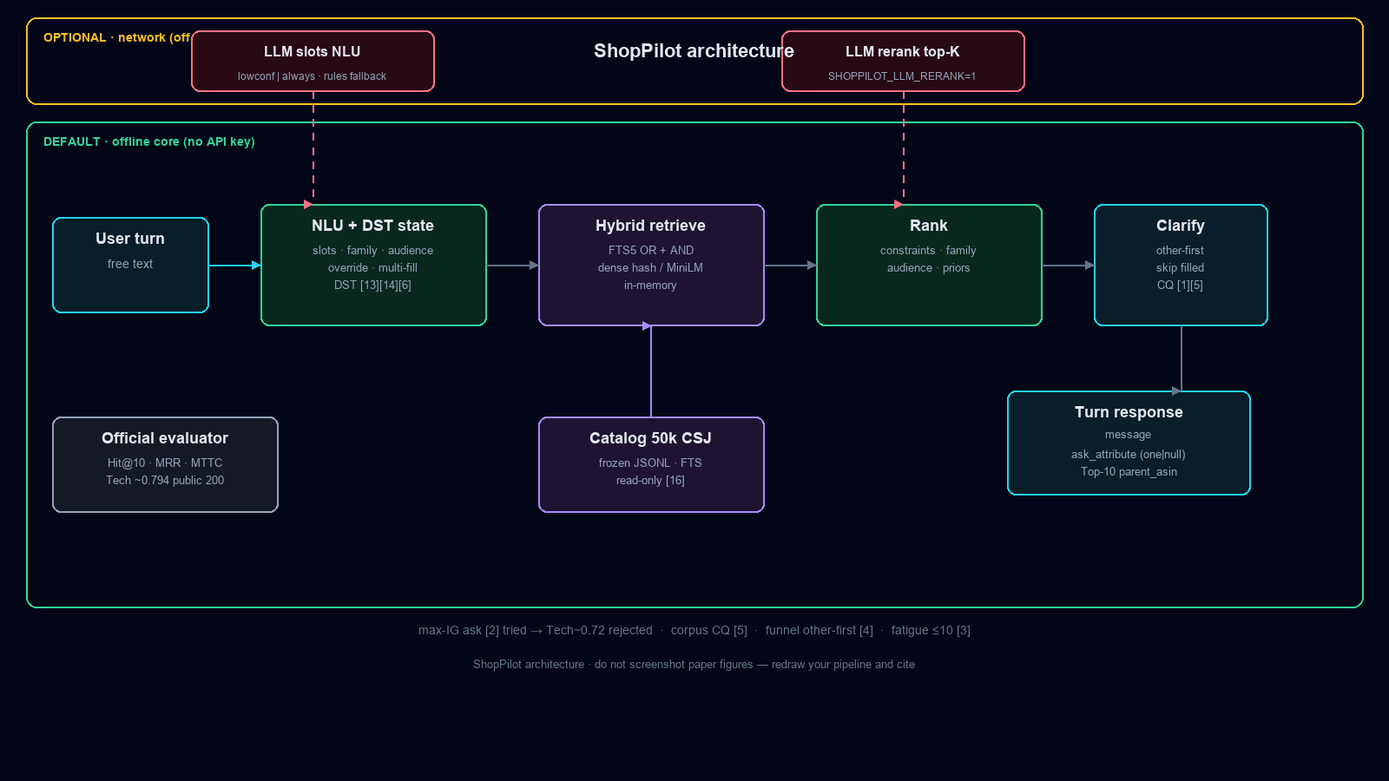
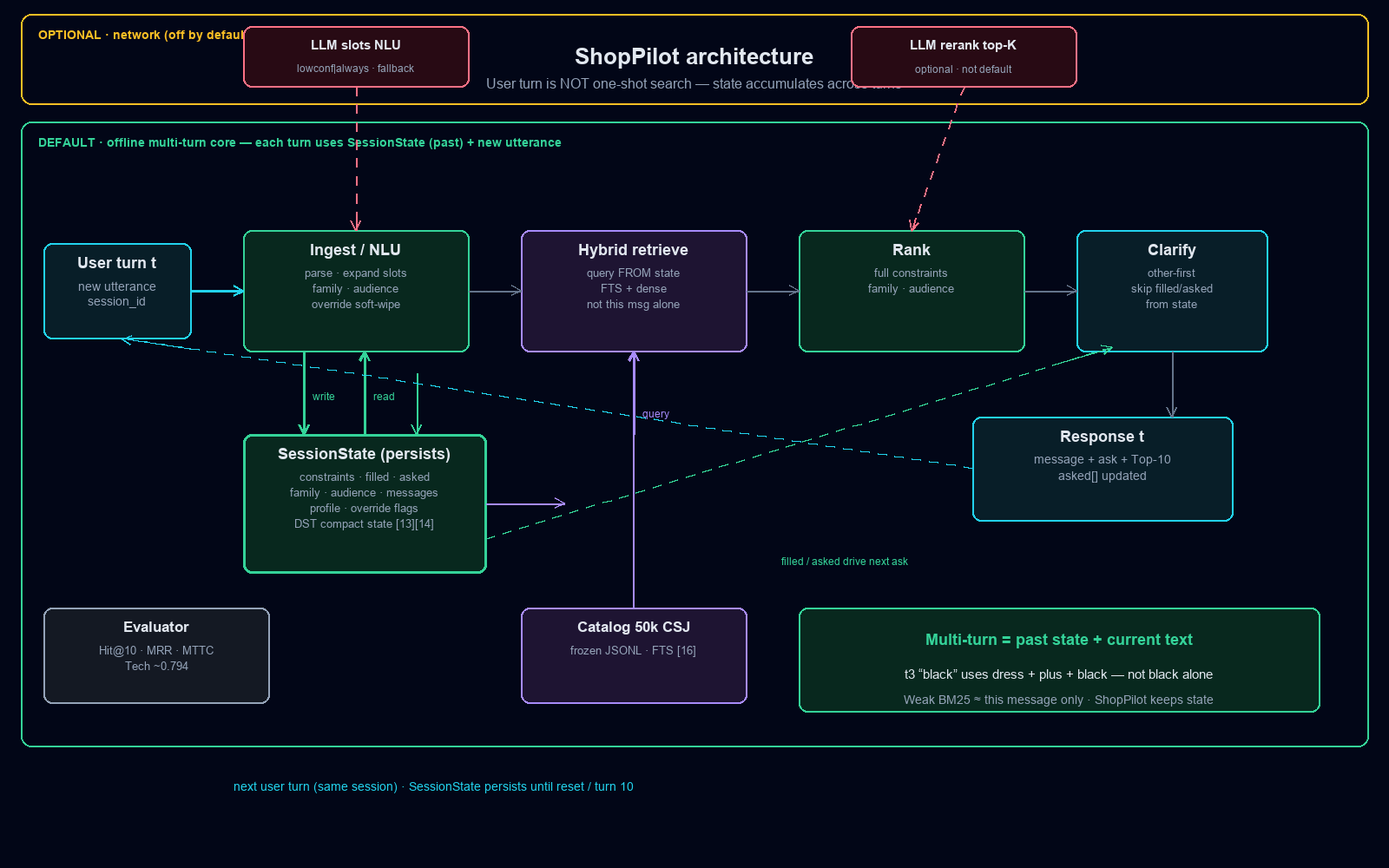
Architecture diagram: show multi-turn SessionState feedback loop.

diff --git a/docs/architecture_diagram.html b/docs/architecture_diagram.html
@@ -9,8 +9,6 @@
 <style>
   :root {
     --bg: #020617;
-    --card: #0f172a;
-    --grid: #1e293b;
     --text: #e2e8f0;
     --muted: #94a3b8;
     --cyan: #22d3ee;
@@ -18,7 +16,6 @@
     --violet: #a78bfa;
     --amber: #fbbf24;
     --rose: #fb7185;
-    --orange: #fb923c;
   }
   * { box-sizing: border-box; }
   body {
@@ -30,7 +27,7 @@
     padding: 28px 24px 48px;
   }
   .header {
-    max-width: 1100px;
+    max-width: 1120px;
     margin: 0 auto 18px;
     display: flex;
     align-items: center;
@@ -39,7 +36,6 @@
   .dot {
     width: 10px; height: 10px; border-radius: 50%;
     background: var(--emerald);
-    box-shadow: 0 0 0 0 rgba(52,211,153,.7);
     animation: pulse 2s infinite;
   }
   @keyframes pulse {
@@ -47,20 +43,19 @@
     70% { box-shadow: 0 0 0 10px rgba(52,211,153,0); }
     100% { box-shadow: 0 0 0 0 rgba(52,211,153,0); }
   }
-  h1 { font-size: 18px; margin: 0; font-weight: 700; letter-spacing: .02em; }
+  h1 { font-size: 18px; margin: 0; font-weight: 700; }
   .sub { color: var(--muted); font-size: 12px; margin-top: 4px; }
   .frame {
-    max-width: 1100px;
+    max-width: 1120px;
     margin: 0 auto;
     background: linear-gradient(180deg, #0b1220, #070b14);
     border: 1px solid #1e293b;
     border-radius: 14px;
     padding: 16px;
-    overflow: auto;
   }
   svg { display: block; width: 100%; height: auto; }
   .cards {
-    max-width: 1100px;
+    max-width: 1120px;
     margin: 18px auto 0;
     display: grid;
     grid-template-columns: repeat(3, 1fr);
@@ -79,13 +74,8 @@
   .card-dot.violet { background: var(--violet); }
   .card h3 { margin: 0; font-size: 12px; font-weight: 600; }
   .card ul { margin: 0; padding: 0; list-style: none; color: var(--muted); font-size: 11px; line-height: 1.55; }
-  .footer {
-    max-width: 1100px; margin: 16px auto 0;
-    color: #64748b; font-size: 10px;
-  }
-  @media (max-width: 800px) {
-    .cards { grid-template-columns: 1fr; }
-  }
+  .footer { max-width: 1120px; margin: 16px auto 0; color: #64748b; font-size: 10px; }
+  @media (max-width: 800px) { .cards { grid-template-columns: 1fr; } }
 </style>
 </head>
 <body>
@@ -93,12 +83,12 @@
     <div class="dot"></div>
     <div>
       <h1>ShopPilot architecture</h1>
-      <div class="sub">Offline-first multi-turn shopping agent · TechJam Track 4 · demo UI: Astrid CLI</div>
+      <div class="sub">Multi-turn DST: each user turn updates SessionState, then retrieve/rank/ask from accumulated past + current utterance</div>
     </div>
   </div>
 
   <div class="frame">
-    <svg viewBox="0 0 1040 620" xmlns="http://www.w3.org/2000/svg" role="img" aria-label="ShopPilot architecture diagram">
+    <svg viewBox="0 0 1080 680" xmlns="http://www.w3.org/2000/svg" role="img" aria-label="ShopPilot multi-turn architecture">
       <defs>
         <pattern id="grid" width="40" height="40" patternUnits="userSpaceOnUse">
           <path d="M 40 0 L 0 0 0 40" fill="none" stroke="#1e293b" stroke-width="0.5"/>
@@ -109,164 +99,195 @@
         <marker id="arrowCyan" markerWidth="8" markerHeight="8" refX="6" refY="3" orient="auto">
           <path d="M0,0 L6,3 L0,6 Z" fill="#22d3ee"/>
         </marker>
+        <marker id="arrowEm" markerWidth="8" markerHeight="8" refX="6" refY="3" orient="auto">
+          <path d="M0,0 L6,3 L0,6 Z" fill="#34d399"/>
+        </marker>
         <marker id="arrowRose" markerWidth="8" markerHeight="8" refX="6" refY="3" orient="auto">
           <path d="M0,0 L6,3 L0,6 Z" fill="#fb7185"/>
         </marker>
+        <marker id="arrowV" markerWidth="8" markerHeight="8" refX="6" refY="3" orient="auto">
+          <path d="M0,0 L6,3 L0,6 Z" fill="#a78bfa"/>
+        </marker>
       </defs>
 
-      <rect width="1040" height="620" fill="#020617"/>
-      <rect width="1040" height="620" fill="url(#grid)"/>
+      <rect width="1080" height="680" fill="#020617"/>
+      <rect width="1080" height="680" fill="url(#grid)"/>
 
-      <!-- Zone: online optional -->
-      <rect x="20" y="20" width="1000" height="90" rx="12" fill="none" stroke="#fbbf24" stroke-width="1.2" stroke-dasharray="8,4" opacity="0.7"/>
-      <text x="36" y="42" fill="#fbbf24" font-size="10" font-family="JetBrains Mono, monospace">OPTIONAL · network (off by default)</text>
+      <!-- Optional zone -->
+      <rect x="24" y="16" width="1032" height="88" rx="12" fill="none" stroke="#fbbf24" stroke-width="1.2" stroke-dasharray="8,4" opacity="0.75"/>
+      <text x="40" y="38" fill="#fbbf24" font-size="10" font-family="JetBrains Mono, monospace">OPTIONAL · network (off by default)</text>
 
-      <!-- Zone: offline core -->
-      <rect x="20" y="130" width="1000" height="400" rx="12" fill="none" stroke="#34d399" stroke-width="1.2" stroke-dasharray="8,4" opacity="0.55"/>
-      <text x="36" y="152" fill="#34d399" font-size="10" font-family="JetBrains Mono, monospace">DEFAULT · offline core (no API key)</text>
+      <!-- Offline core zone -->
+      <rect x="24" y="120" width="1032" height="470" rx="12" fill="none" stroke="#34d399" stroke-width="1.2" stroke-dasharray="8,4" opacity="0.55"/>
+      <text x="40" y="142" fill="#34d399" font-size="10" font-family="JetBrains Mono, monospace">DEFAULT · offline multi-turn core (SessionState carries across turns ≤10)</text>
 
-      <!-- Arrows (behind boxes) -->
-      <!-- user -> nlu -->
-      <line x1="160" y1="230" x2="210" y2="230" stroke="#22d3ee" stroke-width="1.5" marker-end="url(#arrowCyan)"/>
-      <!-- nlu -> retrieve -->
-      <line x1="390" y1="230" x2="440" y2="230" stroke="#64748b" stroke-width="1.5" marker-end="url(#arrow)"/>
+      <!-- ===== ARROWS (draw early) ===== -->
+      <!-- user -> ingest -->
+      <line x1="150" y1="250" x2="200" y2="250" stroke="#22d3ee" stroke-width="1.6" marker-end="url(#arrowCyan)"/>
+      <!-- past state -> ingest (feedback) -->
+      <path d="M 290 430 L 290 320" fill="none" stroke="#34d399" stroke-width="1.8" marker-end="url(#arrowEm)"/>
+      <text x="300" y="380" fill="#34d399" font-size="8" font-family="JetBrains Mono, monospace">read past</text>
+      <!-- ingest writes state -->
+      <path d="M 250 310 L 250 400" fill="none" stroke="#34d399" stroke-width="1.8" marker-end="url(#arrowEm)"/>
+      <text x="168" y="360" fill="#34d399" font-size="8" font-family="JetBrains Mono, monospace">write</text>
+      <!-- state -> retrieve -->
+      <line x1="400" y1="450" x2="470" y2="450" stroke="#a78bfa" stroke-width="1.6" marker-end="url(#arrowV)"/>
+      <line x1="530" y1="400" x2="530" y2="310" stroke="#a78bfa" stroke-width="1.6" marker-end="url(#arrowV)"/>
+      <!-- ingest -> retrieve (also) -->
+      <line x1="380" y1="250" x2="440" y2="250" stroke="#64748b" stroke-width="1.5" marker-end="url(#arrow)"/>
       <!-- retrieve -> rank -->
-      <line x1="620" y1="230" x2="670" y2="230" stroke="#64748b" stroke-width="1.5" marker-end="url(#arrow)"/>
+      <line x1="620" y1="250" x2="680" y2="250" stroke="#64748b" stroke-width="1.5" marker-end="url(#arrow)"/>
       <!-- rank -> clarify -->
-      <line x1="850" y1="230" x2="900" y2="230" stroke="#64748b" stroke-width="1.5" marker-end="url(#arrow)"/>
-      <!-- clarify down to response -->
-      <line x1="970" y1="280" x2="970" y2="340" stroke="#64748b" stroke-width="1.5" marker-end="url(#arrow)"/>
-      <!-- response left label -->
-      <!-- catalog up to retrieve -->
-      <line x1="530" y1="400" x2="530" y2="300" stroke="#a78bfa" stroke-width="1.5" marker-end="url(#arrow)"/>
-      <!-- optional llm dashed into nlu -->
-      <line x1="300" y1="110" x2="300" y2="180" stroke="#fb7185" stroke-width="1.4" stroke-dasharray="4,3" marker-end="url(#arrowRose)"/>
-      <!-- optional rerank into rank -->
-      <line x1="760" y1="110" x2="760" y2="180" stroke="#fb7185" stroke-width="1.4" stroke-dasharray="4,3" marker-end="url(#arrowRose)"/>
+      <line x1="860" y1="250" x2="920" y2="250" stroke="#64748b" stroke-width="1.5" marker-end="url(#arrow)"/>
+      <!-- state -> clarify (skip filled) -->
+      <path d="M 400 470 C 700 520 850 480 920 300" fill="none" stroke="#34d399" stroke-width="1.3" stroke-dasharray="4,3" marker-end="url(#arrowEm)"/>
+      <text x="720" y="515" fill="#34d399" font-size="8" font-family="JetBrains Mono, monospace">filled / asked / dont_care</text>
+      <!-- clarify -> response -->
+      <line x1="970" y1="300" x2="970" y2="350" stroke="#64748b" stroke-width="1.5" marker-end="url(#arrow)"/>
+      <!-- catalog -> retrieve -->
+      <line x1="530" y1="560" x2="530" y2="300" stroke="#a78bfa" stroke-width="1.5" marker-end="url(#arrowV)"/>
+      <!-- response loops next turn hint -->
+      <path d="M 820 400 C 600 560 200 540 100 310" fill="none" stroke="#22d3ee" stroke-width="1.4" stroke-dasharray="5,4" marker-end="url(#arrowCyan)"/>
+      <text x="360" y="575" fill="#22d3ee" font-size="8" font-family="JetBrains Mono, monospace">next user turn (same session_id) · state persists</text>
+      <!-- optional LLM -->
+      <line x1="290" y1="104" x2="290" y2="190" stroke="#fb7185" stroke-width="1.4" stroke-dasharray="4,3" marker-end="url(#arrowRose)"/>
+      <line x1="770" y1="104" x2="770" y2="190" stroke="#fb7185" stroke-width="1.4" stroke-dasharray="4,3" marker-end="url(#arrowRose)"/>
 
-      <!-- USER -->
-      <rect x="40" y="200" width="120" height="70" rx="6" fill="#0f172a"/>
-      <rect x="40" y="200" width="120" height="70" rx="6" fill="rgba(8,51,68,0.45)" stroke="#22d3ee" stroke-width="1.5"/>
-      <text x="100" y="230" text-anchor="middle" fill="#e2e8f0" font-size="12" font-family="JetBrains Mono, monospace" font-weight="600">User turn</text>
-      <text x="100" y="250" text-anchor="middle" fill="#94a3b8" font-size="9" font-family="JetBrains Mono, monospace">free text</text>
+      <!-- OPTIONAL LLM -->
+      <rect x="200" y="36" width="180" height="58" rx="6" fill="#0f172a"/>
+      <rect x="200" y="36" width="180" height="58" rx="6" fill="rgba(136,19,55,0.35)" stroke="#fb7185" stroke-width="1.5"/>
+      <text x="290" y="60" text-anchor="middle" fill="#e2e8f0" font-size="11" font-family="JetBrains Mono, monospace" font-weight="600">LLM slots NLU</text>
+      <text x="290" y="78" text-anchor="middle" fill="#94a3b8" font-size="8" font-family="JetBrains Mono, monospace">lowconf|always · fallback</text>
 
-      <!-- NLU / DST -->
-      <rect x="210" y="185" width="180" height="100" rx="6" fill="#0f172a"/>
-      <rect x="210" y="185" width="180" height="100" rx="6" fill="rgba(6,78,59,0.4)" stroke="#34d399" stroke-width="1.5"/>
-      <text x="300" y="215" text-anchor="middle" fill="#e2e8f0" font-size="12" font-family="JetBrains Mono, monospace" font-weight="600">NLU + DST state</text>
-      <text x="300" y="235" text-anchor="middle" fill="#94a3b8" font-size="9" font-family="JetBrains Mono, monospace">slots · family · audience</text>
-      <text x="300" y="252" text-anchor="middle" fill="#94a3b8" font-size="9" font-family="JetBrains Mono, monospace">override hygiene · multi-fill</text>
-      <text x="300" y="270" text-anchor="middle" fill="#64748b" font-size="8" font-family="JetBrains Mono, monospace">DST / state-update [13][14][6]</text>
+      <rect x="680" y="36" width="180" height="58" rx="6" fill="#0f172a"/>
+      <rect x="680" y="36" width="180" height="58" rx="6" fill="rgba(136,19,55,0.35)" stroke="#fb7185" stroke-width="1.5"/>
+      <text x="770" y="60" text-anchor="middle" fill="#e2e8f0" font-size="11" font-family="JetBrains Mono, monospace" font-weight="600">LLM rerank top-K</text>
+      <text x="770" y="78" text-anchor="middle" fill="#94a3b8" font-size="8" font-family="JetBrains Mono, monospace">optional · not default</text>
+
+      <!-- USER TURN -->
+      <rect x="40" y="210" width="110" height="80" rx="6" fill="#0f172a"/>
+      <rect x="40" y="210" width="110" height="80" rx="6" fill="rgba(8,51,68,0.45)" stroke="#22d3ee" stroke-width="1.5"/>
+      <text x="95" y="242" text-anchor="middle" fill="#e2e8f0" font-size="12" font-family="JetBrains Mono, monospace" font-weight="600">User turn t</text>
+      <text x="95" y="262" text-anchor="middle" fill="#94a3b8" font-size="8" font-family="JetBrains Mono, monospace">new utterance</text>
+      <text x="95" y="278" text-anchor="middle" fill="#64748b" font-size="7" font-family="JetBrains Mono, monospace">+ session_id</text>
+
+      <!-- INGEST / NLU -->
+      <rect x="200" y="200" width="180" height="100" rx="6" fill="#0f172a"/>
+      <rect x="200" y="200" width="180" height="100" rx="6" fill="rgba(6,78,59,0.4)" stroke="#34d399" stroke-width="1.5"/>
+      <text x="290" y="230" text-anchor="middle" fill="#e2e8f0" font-size="12" font-family="JetBrains Mono, monospace" font-weight="600">Ingest / NLU</text>
+      <text x="290" y="250" text-anchor="middle" fill="#94a3b8" font-size="9" font-family="JetBrains Mono, monospace">parse · expand slots</text>
+      <text x="290" y="268" text-anchor="middle" fill="#94a3b8" font-size="9" font-family="JetBrains Mono, monospace">family · audience</text>
+      <text x="290" y="286" text-anchor="middle" fill="#64748b" font-size="8" font-family="JetBrains Mono, monospace">override soft-wipe</text>
+
+      <!-- SESSION STATE (center of multi-turn) -->
+      <rect x="200" y="400" width="200" height="120" rx="6" fill="#0f172a"/>
+      <rect x="200" y="400" width="200" height="120" rx="6" fill="rgba(6,78,59,0.5)" stroke="#34d399" stroke-width="2"/>
+      <text x="300" y="428" text-anchor="middle" fill="#34d399" font-size="12" font-family="JetBrains Mono, monospace" font-weight="600">SessionState</text>
+      <text x="300" y="448" text-anchor="middle" fill="#e2e8f0" font-size="9" font-family="JetBrains Mono, monospace">constraints · filled · asked</text>
+      <text x="300" y="464" text-anchor="middle" fill="#e2e8f0" font-size="9" font-family="JetBrains Mono, monospace">family · audience · messages</text>
+      <text x="300" y="480" text-anchor="middle" fill="#e2e8f0" font-size="9" font-family="JetBrains Mono, monospace">profile · override flags</text>
+      <text x="300" y="500" text-anchor="middle" fill="#64748b" font-size="8" font-family="JetBrains Mono, monospace">DST compact state [13][14]</text>
 
       <!-- RETRIEVE -->
-      <rect x="440" y="185" width="180" height="100" rx="6" fill="#0f172a"/>
-      <rect x="440" y="185" width="180" height="100" rx="6" fill="rgba(76,29,149,0.35)" stroke="#a78bfa" stroke-width="1.5"/>
-      <text x="530" y="215" text-anchor="middle" fill="#e2e8f0" font-size="12" font-family="JetBrains Mono, monospace" font-weight="600">Hybrid retrieve</text>
-      <text x="530" y="235" text-anchor="middle" fill="#94a3b8" font-size="9" font-family="JetBrains Mono, monospace">SQLite FTS5 OR + AND</text>
-      <text x="530" y="252" text-anchor="middle" fill="#94a3b8" font-size="9" font-family="JetBrains Mono, monospace">+ dense hash / MiniLM</text>
-      <text x="530" y="270" text-anchor="middle" fill="#64748b" font-size="8" font-family="JetBrains Mono, monospace">in-memory · no vector DB</text>
+      <rect x="440" y="200" width="180" height="100" rx="6" fill="#0f172a"/>
+      <rect x="440" y="200" width="180" height="100" rx="6" fill="rgba(76,29,149,0.35)" stroke="#a78bfa" stroke-width="1.5"/>
+      <text x="530" y="230" text-anchor="middle" fill="#e2e8f0" font-size="12" font-family="JetBrains Mono, monospace" font-weight="600">Hybrid retrieve</text>
+      <text x="530" y="250" text-anchor="middle" fill="#94a3b8" font-size="9" font-family="JetBrains Mono, monospace">query FROM state</text>
+      <text x="530" y="268" text-anchor="middle" fill="#94a3b8" font-size="9" font-family="JetBrains Mono, monospace">FTS + dense</text>
+      <text x="530" y="286" text-anchor="middle" fill="#64748b" font-size="8" font-family="JetBrains Mono, monospace">not this msg alone</text>
 
       <!-- RANK -->
-      <rect x="670" y="185" width="180" height="100" rx="6" fill="#0f172a"/>
-      <rect x="670" y="185" width="180" height="100" rx="6" fill="rgba(6,78,59,0.35)" stroke="#34d399" stroke-width="1.5"/>
-      <text x="760" y="215" text-anchor="middle" fill="#e2e8f0" font-size="12" font-family="JetBrains Mono, monospace" font-weight="600">Rank</text>
-      <text x="760" y="235" text-anchor="middle" fill="#94a3b8" font-size="9" font-family="JetBrains Mono, monospace">constraints · family</text>
-      <text x="760" y="252" text-anchor="middle" fill="#94a3b8" font-size="9" font-family="JetBrains Mono, monospace">audience · profile/rating</text>
-      <text x="760" y="270" text-anchor="middle" fill="#64748b" font-size="8" font-family="JetBrains Mono, monospace">cold-start tie-breaks</text>
+      <rect x="680" y="200" width="180" height="100" rx="6" fill="#0f172a"/>
+      <rect x="680" y="200" width="180" height="100" rx="6" fill="rgba(6,78,59,0.35)" stroke="#34d399" stroke-width="1.5"/>
+      <text x="770" y="230" text-anchor="middle" fill="#e2e8f0" font-size="12" font-family="JetBrains Mono, monospace" font-weight="600">Rank</text>
+      <text x="770" y="250" text-anchor="middle" fill="#94a3b8" font-size="9" font-family="JetBrains Mono, monospace">constraints · family</text>
+      <text x="770" y="268" text-anchor="middle" fill="#94a3b8" font-size="9" font-family="JetBrains Mono, monospace">audience · priors</text>
+      <text x="770" y="286" text-anchor="middle" fill="#64748b" font-size="8" font-family="JetBrains Mono, monospace">uses full state</text>
 
       <!-- CLARIFY -->
-      <rect x="900" y="185" width="100" height="100" rx="6" fill="#0f172a"/>
-      <rect x="900" y="185" width="100" height="100" rx="6" fill="rgba(8,51,68,0.4)" stroke="#22d3ee" stroke-width="1.5"/>
-      <text x="950" y="220" text-anchor="middle" fill="#e2e8f0" font-size="11" font-family="JetBrains Mono, monospace" font-weight="600">Clarify</text>
-      <text x="950" y="242" text-anchor="middle" fill="#94a3b8" font-size="8" font-family="JetBrains Mono, monospace">other-first</text>
-      <text x="950" y="258" text-anchor="middle" fill="#94a3b8" font-size="8" font-family="JetBrains Mono, monospace">skip filled</text>
-      <text x="950" y="274" text-anchor="middle" fill="#64748b" font-size="7" font-family="JetBrains Mono, monospace">CQ [1][5]</text>
+      <rect x="920" y="200" width="120" height="100" rx="6" fill="#0f172a"/>
+      <rect x="920" y="200" width="120" height="100" rx="6" fill="rgba(8,51,68,0.4)" stroke="#22d3ee" stroke-width="1.5"/>
+      <text x="980" y="232" text-anchor="middle" fill="#e2e8f0" font-size="11" font-family="JetBrains Mono, monospace" font-weight="600">Clarify</text>
+      <text x="980" y="252" text-anchor="middle" fill="#94a3b8" font-size="8" font-family="JetBrains Mono, monospace">other-first</text>
+      <text x="980" y="268" text-anchor="middle" fill="#94a3b8" font-size="8" font-family="JetBrains Mono, monospace">skip filled</text>
+      <text x="980" y="284" text-anchor="middle" fill="#64748b" font-size="7" font-family="JetBrains Mono, monospace">from state</text>
 
       <!-- RESPONSE -->
-      <rect x="820" y="340" width="180" height="90" rx="6" fill="#0f172a"/>
-      <rect x="820" y="340" width="180" height="90" rx="6" fill="rgba(8,51,68,0.45)" stroke="#22d3ee" stroke-width="1.5"/>
-      <text x="910" y="372" text-anchor="middle" fill="#e2e8f0" font-size="12" font-family="JetBrains Mono, monospace" font-weight="600">Turn response</text>
-      <text x="910" y="392" text-anchor="middle" fill="#94a3b8" font-size="9" font-family="JetBrains Mono, monospace">message</text>
-      <text x="910" y="408" text-anchor="middle" fill="#94a3b8" font-size="9" font-family="JetBrains Mono, monospace">ask_attribute (one|null)</text>
-      <text x="910" y="424" text-anchor="middle" fill="#94a3b8" font-size="9" font-family="JetBrains Mono, monospace">Top-10 parent_asin</text>
+      <rect x="860" y="350" width="180" height="90" rx="6" fill="#0f172a"/>
+      <rect x="860" y="350" width="180" height="90" rx="6" fill="rgba(8,51,68,0.45)" stroke="#22d3ee" stroke-width="1.5"/>
+      <text x="950" y="380" text-anchor="middle" fill="#e2e8f0" font-size="12" font-family="JetBrains Mono, monospace" font-weight="600">Response t</text>
+      <text x="950" y="400" text-anchor="middle" fill="#94a3b8" font-size="9" font-family="JetBrains Mono, monospace">message + ask + Top-10</text>
+      <text x="950" y="418" text-anchor="middle" fill="#64748b" font-size="8" font-family="JetBrains Mono, monospace">asked[] updated</text>
 
       <!-- CATALOG -->
-      <rect x="440" y="400" width="180" height="80" rx="6" fill="#0f172a"/>
-      <rect x="440" y="400" width="180" height="80" rx="6" fill="rgba(76,29,149,0.4)" stroke="#a78bfa" stroke-width="1.5"/>
-      <text x="530" y="430" text-anchor="middle" fill="#e2e8f0" font-size="12" font-family="JetBrains Mono, monospace" font-weight="600">Catalog 50k CSJ</text>
-      <text x="530" y="450" text-anchor="middle" fill="#94a3b8" font-size="9" font-family="JetBrains Mono, monospace">frozen JSONL · FTS index</text>
-      <text x="530" y="466" text-anchor="middle" fill="#64748b" font-size="8" font-family="JetBrains Mono, monospace">read-only [16]</text>
+      <rect x="440" y="560" width="180" height="70" rx="6" fill="#0f172a"/>
+      <rect x="440" y="560" width="180" height="70" rx="6" fill="rgba(76,29,149,0.4)" stroke="#a78bfa" stroke-width="1.5"/>
+      <text x="530" y="588" text-anchor="middle" fill="#e2e8f0" font-size="11" font-family="JetBrains Mono, monospace" font-weight="600">Catalog 50k CSJ</text>
+      <text x="530" y="608" text-anchor="middle" fill="#94a3b8" font-size="8" font-family="JetBrains Mono, monospace">frozen · FTS index [16]</text>
 
-      <!-- OPTIONAL LLM boxes -->
-      <rect x="210" y="40" width="180" height="60" rx="6" fill="#0f172a"/>
-      <rect x="210" y="40" width="180" height="60" rx="6" fill="rgba(136,19,55,0.35)" stroke="#fb7185" stroke-width="1.5"/>
-      <text x="300" y="65" text-anchor="middle" fill="#e2e8f0" font-size="11" font-family="JetBrains Mono, monospace" font-weight="600">LLM slots NLU</text>
-      <text x="300" y="82" text-anchor="middle" fill="#94a3b8" font-size="8" font-family="JetBrains Mono, monospace">lowconf | always · fallback</text>
+      <!-- EVALUATOR -->
+      <rect x="40" y="560" width="180" height="70" rx="6" fill="#0f172a"/>
+      <rect x="40" y="560" width="180" height="70" rx="6" fill="rgba(30,41,59,0.55)" stroke="#94a3b8" stroke-width="1.5"/>
+      <text x="130" y="588" text-anchor="middle" fill="#e2e8f0" font-size="11" font-family="JetBrains Mono, monospace" font-weight="600">Evaluator</text>
+      <text x="130" y="608" text-anchor="middle" fill="#94a3b8" font-size="8" font-family="JetBrains Mono, monospace">Hit@10 · MRR · MTTC ~0.794</text>
 
-      <rect x="670" y="40" width="180" height="60" rx="6" fill="#0f172a"/>
-      <rect x="670" y="40" width="180" height="60" rx="6" fill="rgba(136,19,55,0.35)" stroke="#fb7185" stroke-width="1.5"/>
-      <text x="760" y="65" text-anchor="middle" fill="#e2e8f0" font-size="11" font-family="JetBrains Mono, monospace" font-weight="600">LLM rerank top-K</text>
-      <text x="760" y="82" text-anchor="middle" fill="#94a3b8" font-size="8" font-family="JetBrains Mono, monospace">SHOPPILOT_LLM_RERANK=1</text>
+      <!-- KEY CALLLOUT -->
+      <rect x="680" y="450" width="360" height="70" rx="6" fill="#0f172a"/>
+      <rect x="680" y="450" width="360" height="70" rx="6" fill="rgba(6,78,59,0.25)" stroke="#34d399" stroke-width="1.5"/>
+      <text x="860" y="478" text-anchor="middle" fill="#34d399" font-size="11" font-family="JetBrains Mono, monospace" font-weight="600">Multi-turn = past state + current text</text>
+      <text x="860" y="498" text-anchor="middle" fill="#94a3b8" font-size="8" font-family="JetBrains Mono, monospace">t3 “black” retrieves with dress+plus+black, not black alone</text>
 
-      <!-- Evaluator note -->
-      <rect x="40" y="400" width="200" height="80" rx="6" fill="#0f172a"/>
-      <rect x="40" y="400" width="200" height="80" rx="6" fill="rgba(30,41,59,0.5)" stroke="#94a3b8" stroke-width="1.5"/>
-      <text x="140" y="430" text-anchor="middle" fill="#e2e8f0" font-size="11" font-family="JetBrains Mono, monospace" font-weight="600">Official evaluator</text>
-      <text x="140" y="450" text-anchor="middle" fill="#94a3b8" font-size="8" font-family="JetBrains Mono, monospace">Hit@10 · MRR · MTTC</text>
-      <text x="140" y="466" text-anchor="middle" fill="#64748b" font-size="8" font-family="JetBrains Mono, monospace">Tech ~0.794 public 200</text>
-
-      <!-- Rejected path annotation -->
-      <text x="900" y="500" text-anchor="middle" fill="#fb7185" font-size="8" font-family="JetBrains Mono, monospace">max-IG ask [2] tried → Tech~0.72 · rejected</text>
-      <text x="530" y="560" text-anchor="middle" fill="#64748b" font-size="9" font-family="JetBrains Mono, monospace">Corpus-grounded CQ [5]: enum + pool facet examples · Funnel prior [4]: other then finer slots · Fatigue [3]: ≤10 turns</text>
-
-      <!-- Legend -->
-      <g transform="translate(40,575)">
-        <rect x="0" y="0" width="12" height="12" rx="2" fill="rgba(6,78,59,0.5)" stroke="#34d399"/>
-        <text x="18" y="10" fill="#94a3b8" font-size="8" font-family="JetBrains Mono, monospace">core logic</text>
-        <rect x="100" y="0" width="12" height="12" rx="2" fill="rgba(76,29,149,0.5)" stroke="#a78bfa"/>
-        <text x="118" y="10" fill="#94a3b8" font-size="8" font-family="JetBrains Mono, monospace">data / index</text>
-        <rect x="210" y="0" width="12" height="12" rx="2" fill="rgba(8,51,68,0.5)" stroke="#22d3ee"/>
-        <text x="228" y="10" fill="#94a3b8" font-size="8" font-family="JetBrains Mono, monospace">I/O · UI surface</text>
-        <rect x="340" y="0" width="12" height="12" rx="2" fill="rgba(136,19,55,0.5)" stroke="#fb7185"/>
-        <text x="358" y="10" fill="#94a3b8" font-size="8" font-family="JetBrains Mono, monospace">optional LLM</text>
-        <line x1="460" y1="6" x2="490" y2="6" stroke="#fb7185" stroke-width="1.4" stroke-dasharray="4,3"/>
-        <text x="496" y="10" fill="#94a3b8" font-size="8" font-family="JetBrains Mono, monospace">gated path</text>
+      <!-- legend -->
+      <g transform="translate(40,650)">
+        <rect x="0" y="0" width="10" height="10" rx="2" fill="rgba(6,78,59,0.5)" stroke="#34d399"/>
+        <text x="16" y="9" fill="#94a3b8" font-size="8" font-family="JetBrains Mono, monospace">state / logic</text>
+        <rect x="110" y="0" width="10" height="10" rx="2" fill="rgba(76,29,149,0.5)" stroke="#a78bfa"/>
+        <text x="126" y="9" fill="#94a3b8" font-size="8" font-family="JetBrains Mono, monospace">data</text>
+        <rect x="180" y="0" width="10" height="10" rx="2" fill="rgba(8,51,68,0.5)" stroke="#22d3ee"/>
+        <text x="196" y="9" fill="#94a3b8" font-size="8" font-family="JetBrains Mono, monospace">turn I/O</text>
+        <rect x="270" y="0" width="10" height="10" rx="2" fill="rgba(136,19,55,0.5)" stroke="#fb7185"/>
+        <text x="286" y="9" fill="#94a3b8" font-size="8" font-family="JetBrains Mono, monospace">optional LLM</text>
+        <line x1="390" y1="5" x2="420" y2="5" stroke="#34d399" stroke-width="1.5"/>
+        <text x="426" y="9" fill="#94a3b8" font-size="8" font-family="JetBrains Mono, monospace">state read/write</text>
+        <line x1="540" y1="5" x2="570" y2="5" stroke="#22d3ee" stroke-width="1.4" stroke-dasharray="4,3"/>
+        <text x="576" y="9" fill="#94a3b8" font-size="8" font-family="JetBrains Mono, monospace">next turn loop</text>
       </g>
     </svg>
   </div>
 
   <div class="cards">
     <div class="card">
-      <div class="card-header"><div class="card-dot emerald"></div><h3>From papers (adopt)</h3></div>
+      <div class="card-header"><div class="card-dot emerald"></div><h3>Per-turn loop</h3></div>
       <ul>
-        <li>• DST compact state [13][14][6] — SessionState slots</li>
-        <li>• Corpus-grounded CQ [5][9] — enum + pool facets</li>
-        <li>• Funnel prior [4] — other → finer attributes</li>
-        <li>• Fatigue / contradiction [3] — ≤10 turns, override</li>
+        <li>• Load SessionState for session_id</li>
+        <li>• Ingest utterance → update slots/family/audience</li>
+        <li>• Retrieve/rank using <b>full state</b>, not msg alone</li>
+        <li>• Ask next unfilled attribute; write asked[]</li>
+        <li>• Same session continues until hit or turn 10</li>
       </ul>
     </div>
     <div class="card">
-      <div class="card-header"><div class="card-dot cyan"></div><h3>Measured on kit</h3></div>
+      <div class="card-header"><div class="card-dot cyan"></div><h3>What persists</h3></div>
       <ul>
-        <li>• Max-IG / entropy asks [1][2] → Tech ~0.72 — rejected</li>
-        <li>• Soft-only override wipe → override Hit ↑</li>
-        <li>• Hybrid FTS + dense hash → Tech ~0.794</li>
-        <li>• Offline default · 0 tokens</li>
+        <li>• constraints, filled, dont_care, asked</li>
+        <li>• category, product_family, audience</li>
+        <li>• messages (+ query_message_start after override)</li>
+        <li>• user_profile from reset (long-term prior)</li>
       </ul>
     </div>
     <div class="card">
-      <div class="card-header"><div class="card-dot violet"></div><h3>Do not copy figures</h3></div>
+      <div class="card-header"><div class="card-dot violet"></div><h3>vs weak BM25</h3></div>
       <ul>
-        <li>• Redraw your pipeline (this diagram)</li>
-        <li>• Cite papers in text, not screenshot their plots</li>
-        <li>• Protocol: one ask_attribute per turn [16]</li>
-        <li>• LLM is optional add-on, not the spine</li>
+        <li>• Starter: mostly tokens from <b>this</b> message</li>
+        <li>• ShopPilot: DST state-update multi-turn [13][14]</li>
+        <li>• Override: soft wipe, keep disclosed hard facts</li>
+        <li>• Papers inspire design; diagram = our system</li>
       </ul>
     </div>
   </div>
 
   <div class="footer">
-    ShopPilot · github.com/algorathem/techjam2026-shopping-copilot · open this HTML in a browser · export PNG via screenshot for slides
+    ShopPilot · multi-turn SessionState architecture · github.com/algorathem/techjam2026-shopping-copilot
   </div>
 </body>
 </html>
